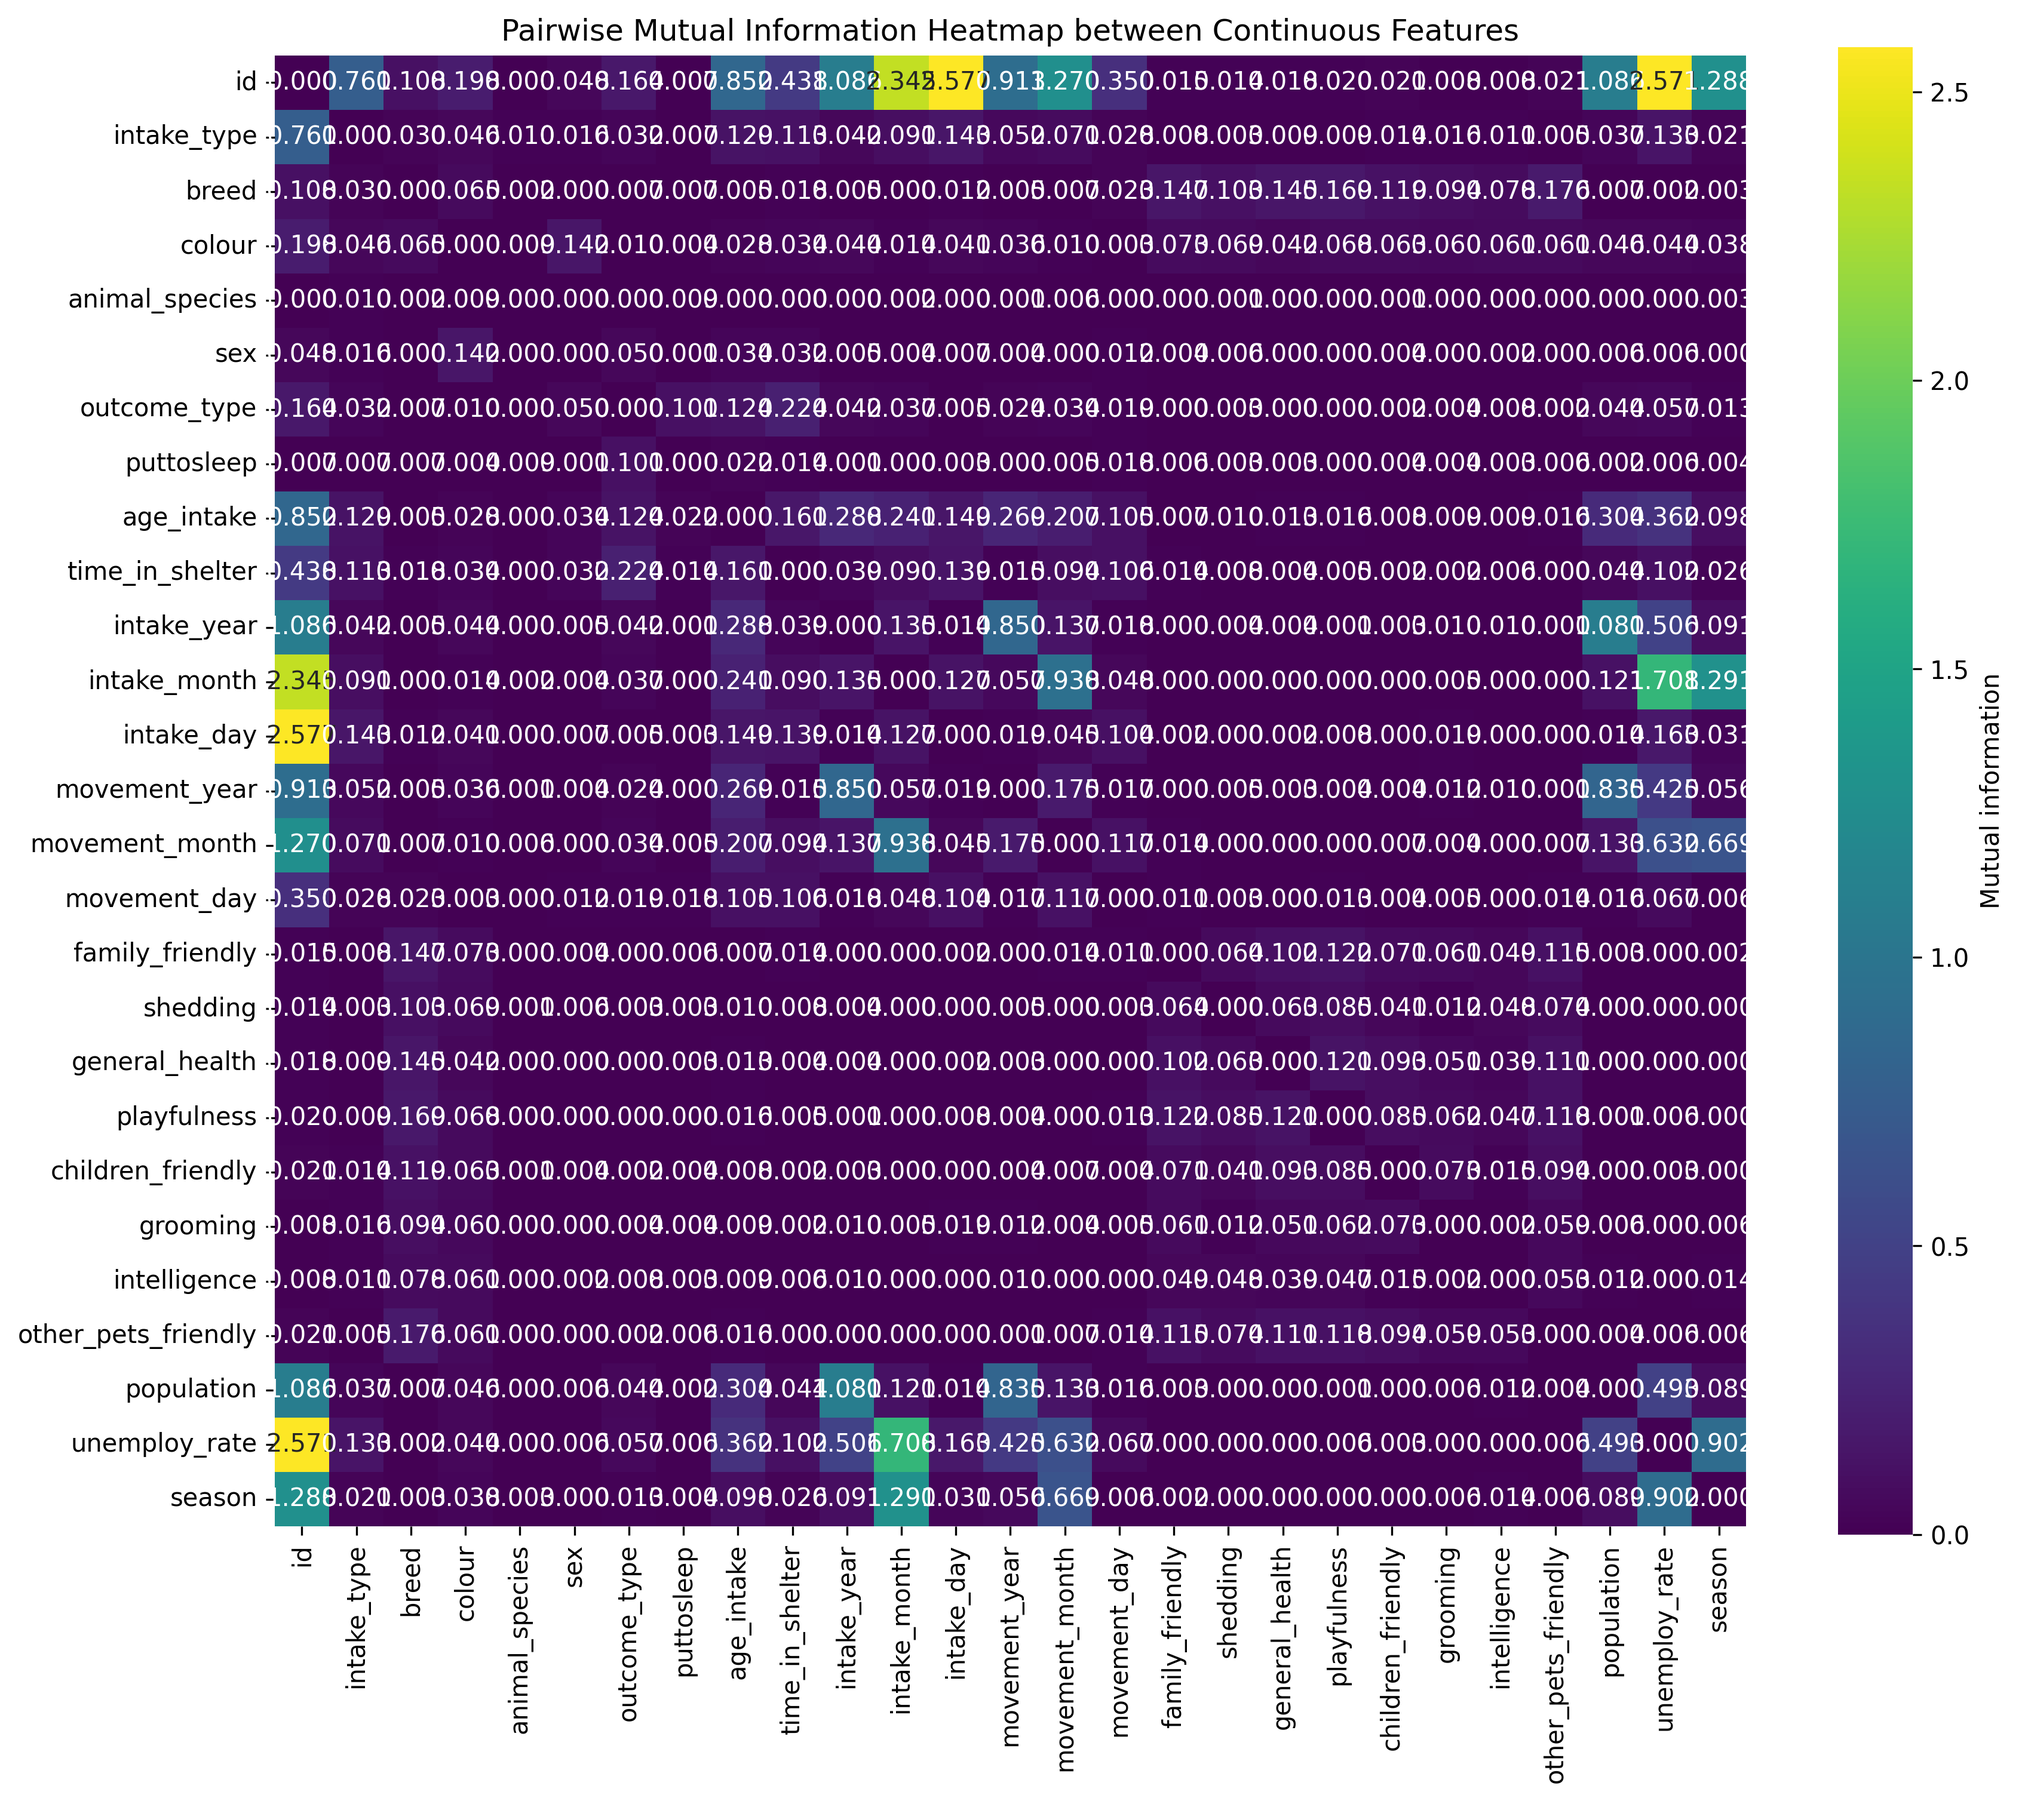
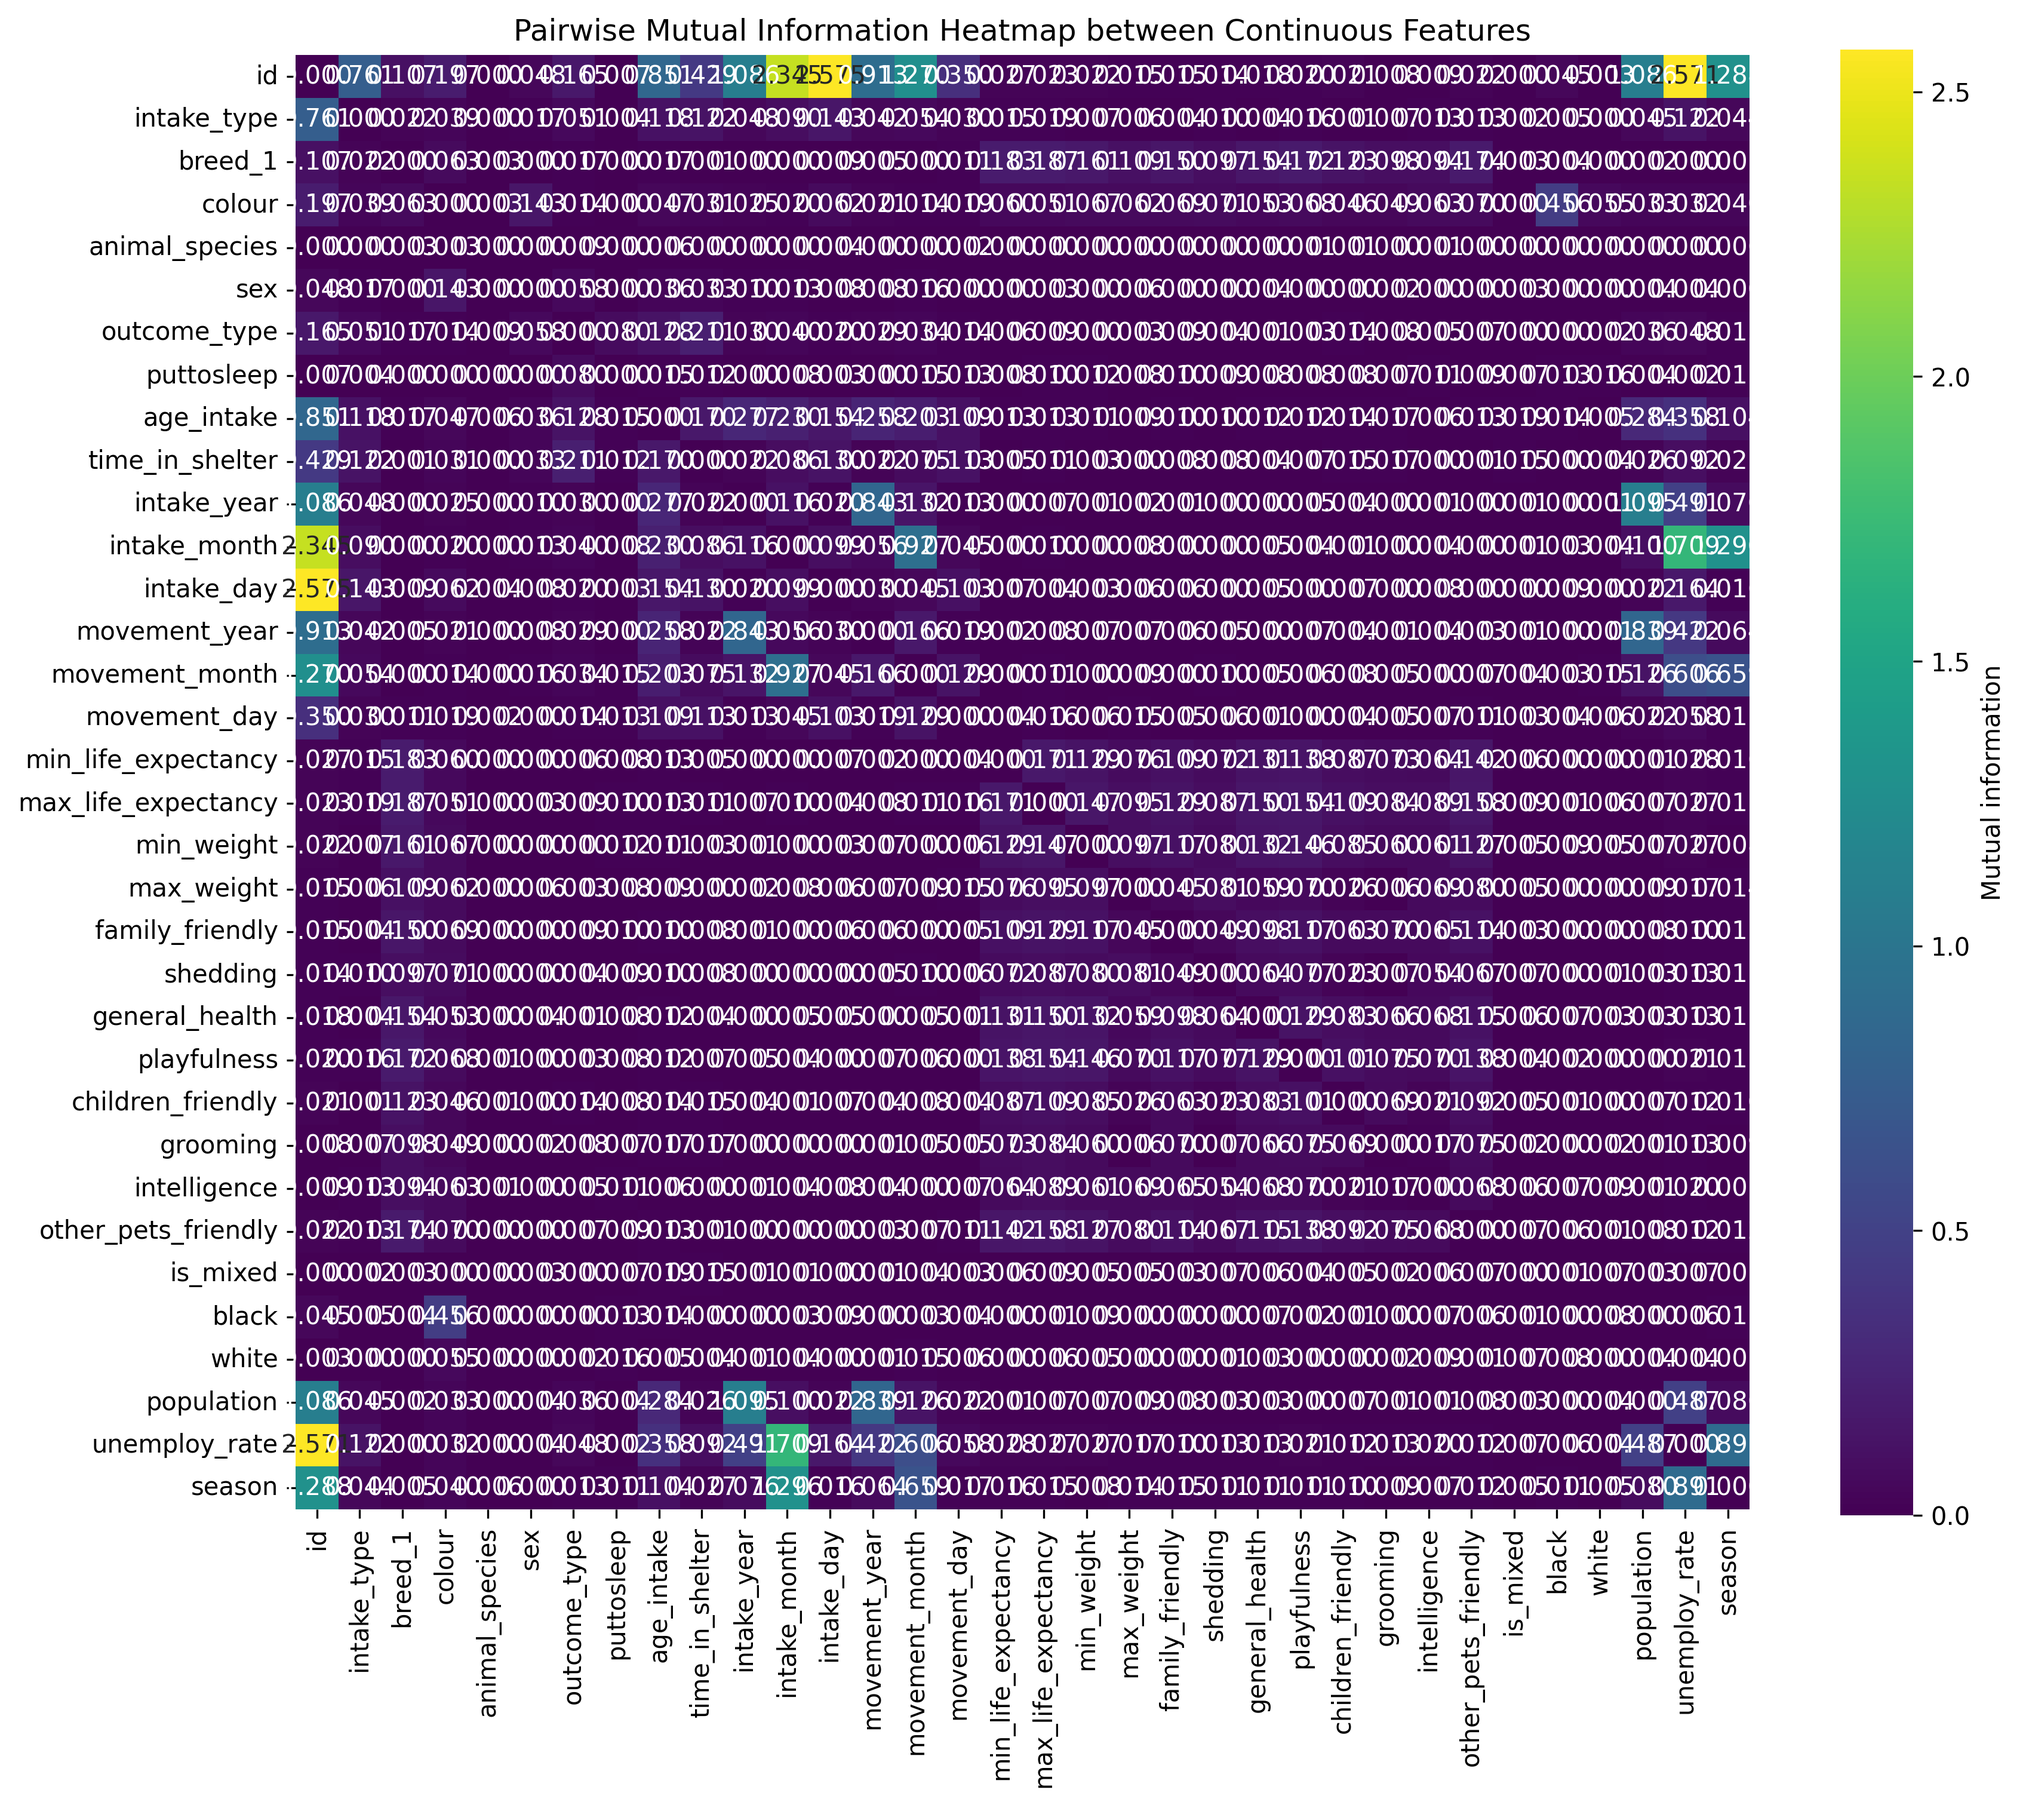
added is_mixed, breed_2, black, white

Changed region(s): [[0.0, 0.0, 0.8685, 0.9973], [0.9616, 0.374, 0.9926, 0.4987], [0.8996, 0.8415, 0.9616, 0.8727]]

diff --git a/source/ABDLT_merge_kaggle.py b/source/ABDLT_merge_kaggle.py
@@ -18,7 +18,7 @@ def clean_kaggle_dog(df):
     return df
 
 def clean_kaggle_cat(df):
-    df = df.drop(columns=['length', 'origin', 'min_life_expectancy', 'max_life_expectancy', "min_weight", "max_weight"])
+    df = df.drop(columns=['length', 'origin'])
     return df
 
 def fill_values_dog(df, df_kaggle):
@@ -91,6 +91,27 @@ def add_unemployment(df):
 
     return df.merge(unemp, how="left", on=["intake_year", "intake_month"])
 
+def add_is_mixed(df):
+    df['is_mixed'] = False
+    return df
+
+def rename_breed(df):
+    df['breed_2'] = None
+    df.rename(columns={"breed": "breed_1"}, inplace=True)
+    return df
+
+def check_colour(row):
+    '''
+    Usage df[['black', 'white']] = df.apply(check_colour, axis=1, result_type='expand')
+    '''
+    if row['colour'] == 'Black':
+        return 1, 0  
+    elif row['colour'] == 'White':
+        return 0, 1
+    else:
+        return 0, 0
+    
+
 cat_df, dog_df, dog_kaggle, cat_kaggle = read_file()
 
 #merge datasets: kaggle, unemployment, population and seasons to dog dataset 
@@ -103,6 +124,9 @@ merge_dog = apply_get_season(merge_dog)
 #merge datasets: kaggle, unemployment, population and seasons to cat dataset 
 cat_kaggle = clean_kaggle_cat(cat_kaggle)
 merge_cat = fill_values_cat(cat_df, cat_kaggle)
+merge_cat = add_is_mixed(merge_cat)
+merge_cat = rename_breed(merge_cat)
+merge_cat[['black', 'white']] = merge_cat.apply(check_colour, axis=1, result_type='expand')
 merge_cat = add_population(merge_cat)
 merge_cat = add_unemployment(merge_cat)
 merge_cat = apply_get_season(merge_cat)
@@ -110,7 +134,7 @@ merge_cat = apply_get_season(merge_cat)
 print(merge_dog.head(15))
 print(merge_cat.head(15))
 
-plotting.mutual_info_regression_matrix(merge_cat.dropna(),filename='figures/MI_heatmap_ABDLT_cat.png', figsize=(12,10))
+plotting.mutual_info_regression_matrix(merge_cat.drop(columns=['breed_2']).dropna(),filename='figures/MI_heatmap_ABDLT_cat.png', figsize=(12,10))
 plotting.mutual_info_regression_matrix(merge_dog.dropna(),filename='figures/MI_heatmap_ABDLT_dog.png', figsize=(14,12))
 
 #merge_cat.to_csv("datasets/ABDLT_output_cat_pop.csv", index=False)
